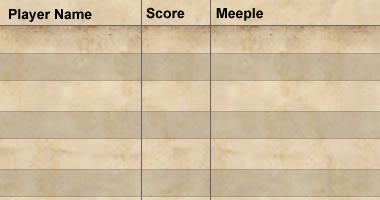
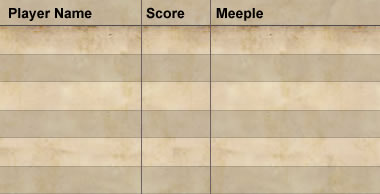
- Fixed weird bug where placing tiles  would fail when the temp tiles were on the board. - Updated game stats background image so it's the right size - Cleaned up game turn flow a bit and added comments - Fixed positioning issue in MapLayer (it was putting sprites over the wrong tile because of some

diff --git a/javassonne/src/org/javassonne/ui/controllers/GameController.java b/javassonne/src/org/javassonne/ui/controllers/GameController.java
@@ -87,28 +87,19 @@ public class GameController {
 		menu_ = new MenuPanel();
 
 		// register to receive events from the game window
-		NotificationManager.getInstance().addObserver(Notification.NEW_GAME,
-				this, "newGame");
-		NotificationManager.getInstance().addObserver(Notification.NEW_NW_GAME,
-				this, "newNetworkGame");
-		NotificationManager.getInstance().addObserver(Notification.START_GAME,
-				this, "startGame");
-		NotificationManager.getInstance().addObserver(
-				Notification.ATTEMPT_END_GAME, this, "attemptEndGame");
-		NotificationManager.getInstance().addObserver(Notification.END_GAME,
-				this, "endGame");
-		NotificationManager.getInstance().addObserver(Notification.LOAD_GAME,
-				this, "loadGame");
-		NotificationManager.getInstance().addObserver(Notification.SAVE_GAME,
-				this, "saveGame");
-		NotificationManager.getInstance().addObserver(Notification.END_TURN,
-				this, "endTurn");
-		NotificationManager.getInstance().addObserver(Notification.QUIT, this,
-				"quitGame");
-		NotificationManager.getInstance().addObserver(
-				Notification.TOGGLE_MAIN_MENU, this, "toggleMainMenu");
-		NotificationManager.getInstance().addObserver(
-				Notification.PLAYER_DATA_RESET, this, "playerDataReset");
+		NotificationManager n = NotificationManager.getInstance();
+		n.addObserver(Notification.NEW_GAME, this, "newGame");
+		n.addObserver(Notification.NEW_NW_GAME, this, "newNetworkGame");
+		n.addObserver(Notification.START_GAME, this, "startGame");
+		n.addObserver(Notification.ATTEMPT_END_GAME, this, "attemptEndGame");
+		n.addObserver(Notification.END_GAME, this, "endGame");
+		n.addObserver(Notification.LOAD_GAME, this, "loadGame");
+		n.addObserver(Notification.SAVE_GAME, this, "saveGame");
+		n.addObserver(Notification.END_TURN, this, "endTurn");
+		n.addObserver(Notification.QUIT, this, "quitGame");
+		n.addObserver(Notification.TOGGLE_MAIN_MENU, this, "toggleMainMenu");
+		n.addObserver(Notification.PLAYER_DATA_RESET, this, "playerDataReset");
+		n.addObserver(Notification.TILE_UNUSABLE, this, "beginTurn");
 	}
 
 	/**
@@ -244,10 +235,14 @@ public class GameController {
 		beginTurn();
 	}
 
+	/**
+	 * Called when a turn is ended, and may be called again if the BoardController
+	 * finds the drawn tile unusable.
+	 * 
+	 */
 	public void beginTurn() {
 		// if the current player is playing on this machine, we need to enable
-		// the
-		// interface so they can place a tile. We do that by passing another
+		// the interface so they can place a tile. We do that by passing another
 		// notification
 		Player p = players_.get(currentPlayer_);
 
@@ -257,7 +252,7 @@ public class GameController {
 
 			// Send notification that we've modified the deck
 			NotificationManager.getInstance().sendNotification(
-					Notification.DECK_CHANGED, deck_);
+					Notification.DECK_SET, deck_);
 
 			// Send notifications to attach our tileInHand to the view
 			NotificationManager.getInstance().sendNotification(

diff --git a/javassonne/src/org/javassonne/ui/map/MapLayer.java b/javassonne/src/org/javassonne/ui/map/MapLayer.java
@@ -98,25 +98,18 @@ public class MapLayer extends JPanel implements MouseListener,
 		setDoubleBuffered(false);
 
 		// Listen for notification setting our board model
-		NotificationManager.getInstance().addObserver(Notification.BOARD_SET,
-				this, "setBoard");
-		// Listen for the end-game notification so we know if we need to clear
-		// the board.
-		NotificationManager.getInstance().addObserver(Notification.END_GAME,
-				this, "endGame");
+		NotificationManager n = NotificationManager.getInstance();
+		n.addObserver(Notification.BOARD_SET, this, "setBoard");
+		// Listen for end-game so we know we need to clear the board.
+		n.addObserver(Notification.END_GAME, this, "endGame");
 		// Listen for notifications changing the zoom
-		NotificationManager.getInstance().addObserver(Notification.ZOOM_IN,
-				this, "zoomIn");
-		NotificationManager.getInstance().addObserver(Notification.ZOOM_OUT,
-				this, "zoomOut");
+		n.addObserver(Notification.ZOOM_IN, this, "zoomIn");
+		n.addObserver(Notification.ZOOM_OUT, this, "zoomOut");
 		// Listen for notifications for adding and removing sprites
-		NotificationManager.getInstance().addObserver(
-				Notification.MAP_ADD_SPRITE, this, "addSprite");
-		NotificationManager.getInstance().addObserver(
-				Notification.MAP_REMOVE_SPRITE, this, "removeSprite");
+		n.addObserver(Notification.MAP_ADD_SPRITE, this, "addSprite");
+		n.addObserver(Notification.MAP_REMOVE_SPRITE, this, "removeSprite");
 		// Listen for a notification from the tile being dragged
-		NotificationManager.getInstance().addObserver(
-				Notification.TILE_DROPPED, this, "tileDropped");
+		n.addObserver(Notification.TILE_DROPPED, this, "tileDropped");
 
 		// Load the background image from disk
 		try {
@@ -218,11 +211,11 @@ public class MapLayer extends JPanel implements MouseListener,
 		if (spriteActive || (mapShift_ != null)) {
 			updateTimer_ = new Timer();
 			updateTimer_.scheduleAtFixedRate(new UpdateTask(), 50, 50); // 20
-																		// FPS
+			// FPS
 		} else {
 			updateTimer_ = new Timer();
 			updateTimer_.scheduleAtFixedRate(new UpdateTask(), 50, 500); // 2
-																			// FPS
+			// FPS
 		}
 	}
 
@@ -248,7 +241,7 @@ public class MapLayer extends JPanel implements MouseListener,
 		// followed.
 		board_ = null;
 		sprites_.clear();
-		
+
 		// reset the board scroll offset, in case they start a new game
 		paintOffset_ = new Point(0, 0);
 		renderOffset_ = new Point(0, 0);
@@ -534,8 +527,8 @@ public class MapLayer extends JPanel implements MouseListener,
 
 	public Point getPointFromTileLocation(Point p) {
 		int tileSize = (int) (backgroundTile_.getWidth() * scale_);
-		int X = (int) ((p.x + board_.getUpperLeftCorner().getLocation().getX() + 1) * tileSize);
-		int Y = (int) ((board_.getUpperLeftCorner().getLocation().getY() - p.y - 1) * tileSize);
+		int X = (int) (p.x * tileSize);
+		int Y = (int) -(p.y * tileSize);
 
 		return new Point(X, Y);
 	}

diff --git a/javassonne/src/org/javassonne/ui/controllers/BoardController.java b/javassonne/src/org/javassonne/ui/controllers/BoardController.java
@@ -72,16 +72,13 @@ public class BoardController {
 			ex.printStackTrace();
 		}
 
-		NotificationManager.getInstance().addObserver(Notification.PLACE_TILE,
-				this, "placeTile");
-		NotificationManager.getInstance().addObserver(
-				Notification.UNDO_PLACE_TILE, this, "undoPlaceTile");
-		NotificationManager.getInstance().addObserver(
-				Notification.TILE_IN_HAND_CHANGED, this, "updateTileInHand");
-		NotificationManager.getInstance().addObserver(Notification.END_GAME,
-				this, "endGame");
-		NotificationManager.getInstance().addObserver(Notification.END_TURN,
-				this, "endTurn");
+		NotificationManager n = NotificationManager.getInstance();
+		n.addObserver(Notification.PLACE_TILE, this, "placeTile");
+		n.addObserver(Notification.UNDO_PLACE_TILE, this, "undoPlaceTile");
+		n.addObserver(Notification.END_GAME, this, "endGame");
+		n.addObserver(Notification.END_TURN, this, "endTurn");
+		n.addObserver(Notification.TILE_IN_HAND_CHANGED, this,
+		"updateTileInHand");
 
 		// Now that we have a board object, we want to update the interface to
 		// show the board. Share our board_ object in a notification so the
@@ -106,7 +103,6 @@ public class BoardController {
 		// update the tile's status so that it is now permanent
 		try {
 			board_.removeTempStatus(tempLocationIter_);
-			board_.removeTemps();
 		} catch (NotValidPlacementException e) {
 			// TODO Auto-generated catch block
 			e.printStackTrace();
@@ -187,34 +183,32 @@ public class BoardController {
 		NotificationManager.getInstance().sendNotification(
 				Notification.MAP_REMOVE_SPRITE, tempPlacementSprite_);
 
-		tileInHand_ = null;
 		tempPlacementSprite_ = null;
 		tempPlacedTile_ = null;
 		tempLocationIter_ = null;
 	}
 
 	public void updateTileInHand(Notification n) {
-		Boolean tileHasChanged = false;
+		Boolean shouldPopulateLocations = false;
 		Tile t = (Tile) n.argument();
 
-		if ((tileInHand_ == null)
-				|| ((t != null) && (t.getUniqueIdentifier() != tileInHand_
-						.getUniqueIdentifier())))
-			tileHasChanged = true;
+		shouldPopulateLocations = ((tileInHand_ == null) || ((t != null) && (t
+				.getUniqueIdentifier() != tileInHand_.getUniqueIdentifier())));
 
 		tileInHand_ = t;
 
 		// Do we need to populate possible locations?
-		if (tileHasChanged && t != null) {
+		if (shouldPopulateLocations) {
 			try {
 				Set<TileBoardIterator> temp = board_.possiblePlacements(t);
+
 				// If there are none, throw out TileInHand
 				if (temp.isEmpty()) {
 					NotificationManager.getInstance().sendNotification(
 							Notification.LOG_WARNING,
 							"Tile does not fit on board; drawing new Tile");
 					NotificationManager.getInstance().sendNotification(
-							Notification.DRAW_TILE);
+							Notification.TILE_UNUSABLE);
 
 					// Otherwise, add the possibles
 				} else {
@@ -229,5 +223,4 @@ public class BoardController {
 			}
 		}
 	}
-
 }

diff --git a/javassonne/src/org/javassonne/messaging/Notification.java b/javassonne/src/org/javassonne/messaging/Notification.java
@@ -41,10 +41,12 @@ public class Notification implements Serializable {
 	public static final String TILE_IN_HAND_CHANGED = "NotificationTileInHandChanged";
 	public static final String TILE_ROTATE_LEFT = "NotificationGameTileRotateLeft";
 	public static final String TILE_ROTATE_RIGHT = "NotificationGameTileRotateRight";
+	public static final String TILE_DROPPED = "NotificationTileDropped";
+	public static final String TILE_UNUSABLE = "NotificationTileUnusable";
+	
 	public static final String ZOOM_IN = "NotificationGameZoomIn";
 	public static final String ZOOM_OUT = "NotificationGameZoomOut";
 	public static final String ZOOM_CHANGED = "NotificationGameZoomChanged";
-	public static final String DRAW_TILE = "NotificationDrawTile";
 
 	public static final String NEW_GAME = "NotificationNewGame";
 	public static final String NEW_NW_GAME = "NotificationNewNetworkGame";
@@ -53,24 +55,23 @@ public class Notification implements Serializable {
 	public static final String SAVE_GAME = "NotificationSaveGame";
 	public static final String ATTEMPT_END_GAME = "NotificationAttemptEndGame";
 	public static final String END_GAME = "NotificationEndGame";
-	public static final String DECK_CHANGED = "NotificationDeckChanged";
-
-	public static final String BOARD_SET = "NotificationSetBoard";
-	
 	public static final String QUIT = "NotificationQuit";
 	public static final String TOGGLE_MAIN_MENU = "NotificationToggleMainMenu";
+	
+	public static final String DECK_SET = "NotificationSetDeck";
+	public static final String BOARD_SET = "NotificationSetBoard";
+	
 	public static final String PLACE_TILE = "NotificationClickAddTile";
-	public static final String TILE_DROPPED = "NotificationTileDropped";
+	public static final String UNDO_PLACE_TILE = "NotificationCancelTilePlacement";
 	
 	public static final String PLAYER_DATA_CHANGED = "NotificationPlayerDataChanged";
 	public static final String PLAYER_DATA_RESET = "NotificationPlayerDataReset";
 	
-	public static final String UNDO_PLACE_TILE = "NotificationCancelTilePlacement";
 	public static final String MEEPLE_DROPPED = "NotificationMeepleDropped";
 	public static final String MAP_ADD_SPRITE = "NotificationMapAddSprite";
 	public static final String MAP_REMOVE_SPRITE = "NotificationMapRemoveSprite";
-	public static final String END_TURN = "NotificationEndTurn";
 	public static final String BEGIN_TURN = "NotificationBeginTurn";
+	public static final String END_TURN = "NotificationEndTurn";
 
 	private String identifier_;
 	private Object argument_;

diff --git a/javassonne/src/org/javassonne/model/TileMapBoard.java b/javassonne/src/org/javassonne/model/TileMapBoard.java
@@ -114,29 +114,38 @@ public class TileMapBoard implements TileBoard {
 			TileBoardGenIterator localIter = new TileBoardGenIterator(iter);
 			// iterate left and check if features match
 			Tile left = localIter.leftCopy().current();
-			if (left != null
-					&& !tileFeatureBindings_.featuresBind(left
+			Tile top = localIter.upCopy().current();
+			Tile right = localIter.rightCopy().current();
+			Tile bottom = localIter.downCopy().current();
+			
+			// we want to make sure the tiles we're looking at in the adjacent
+			// squares are not temp. tiles. This could lead to illeigal "feature
+			// bindings" and this function returning false unnecessarily.
+			if (tempTileLocations_.contains(localIter.leftCopy().getLocation()))
+				left = null;
+			if (tempTileLocations_.contains(localIter.rightCopy().getLocation()))
+				right = null;
+			if (tempTileLocations_.contains(localIter.upCopy().getLocation()))
+				top = null;
+			if (tempTileLocations_.contains(localIter.downCopy().getLocation()))
+				bottom = null;
+		
+			if (left != null && !tileFeatureBindings_.featuresBind(left
 							.featureIdentifierInRegion(Region.Right), tile
 							.featureIdentifierInRegion(Region.Left)))
 				return false;
 			// iterate up and check if features match
-			Tile top = localIter.upCopy().current();
-			if (top != null
-					&& !tileFeatureBindings_.featuresBind(top
+			if (top != null && !tileFeatureBindings_.featuresBind(top
 							.featureIdentifierInRegion(Region.Bottom), tile
 							.featureIdentifierInRegion(Region.Top)))
 				return false;
 			// iterate right and check if features match
-			Tile right = localIter.rightCopy().current();
-			if (right != null
-					&& !tileFeatureBindings_.featuresBind(right
+			if (right != null && !tileFeatureBindings_.featuresBind(right
 							.featureIdentifierInRegion(Region.Left), tile
 							.featureIdentifierInRegion(Region.Right)))
 				return false;
 			// iterate down and check if features match
-			Tile bottom = localIter.downCopy().current();
-			if (bottom != null
-					&& !tileFeatureBindings_.featuresBind(bottom
+			if (bottom != null && !tileFeatureBindings_.featuresBind(bottom
 							.featureIdentifierInRegion(Region.Top), tile
 							.featureIdentifierInRegion(Region.Bottom)))
 				return false;

diff --git a/javassonne/src/org/javassonne/ui/panels/HUDGameStatsPanel.java b/javassonne/src/org/javassonne/ui/panels/HUDGameStatsPanel.java
@@ -46,7 +46,7 @@ public class HUDGameStatsPanel extends AbstractHUDPanel {
 		super();
 
 		setVisible(true);
-		setSize(380, 26 + 28 * players.size());
+		setSize(380, 27 + 28 * players.size());
 		setLayout(null);
 		setBackgroundImagePath("images/hud_stats_background.jpg");
 		setBackgroundScaleToFit(false);
@@ -102,7 +102,7 @@ public class HUDGameStatsPanel extends AbstractHUDPanel {
 		currentPlayer_ = (currentPlayer_ + 1) % players_.size();
 		
 		// move the selected player focus background
-		focus_.setLocation(0, 26 + currentPlayer_ * 28);
+		focus_.setLocation(0, 27 + currentPlayer_ * 28);
 	}
 
 	// Overloaded the add() method to bind a key listener to any elements placed

diff --git a/javassonne/src/org/javassonne/ui/controllers/HUDController.java b/javassonne/src/org/javassonne/ui/controllers/HUDController.java
@@ -106,6 +106,7 @@ public class HUDController {
 				Notification.TILE_ROTATE_RIGHT, this, "rotateTileInHandRight");
 		NotificationManager.getInstance().addObserver(
 				Notification.TILE_IN_HAND_CHANGED, this, "updateTileInHand");
+		
 		NotificationManager.getInstance().addObserver(Notification.END_GAME,
 				this, "endGame");
 		NotificationManager.getInstance().addObserver(Notification.BOARD_SET,

diff --git a/javassonne/src/org/javassonne/ui/panels/RemainingTilesPanel.java b/javassonne/src/org/javassonne/ui/panels/RemainingTilesPanel.java
@@ -58,7 +58,7 @@ public class RemainingTilesPanel extends AbstractHUDPanel{
 		tileImageLabels_ = new ArrayList<JLabel>();
 
 		NotificationManager.getInstance().addObserver(
-				Notification.DECK_CHANGED, this, "updateDeck");
+				Notification.DECK_SET, this, "updateDeck");
 		NotificationManager.getInstance().addObserver(
 				Notification.END_GAME, this, "endGame");
 	}
